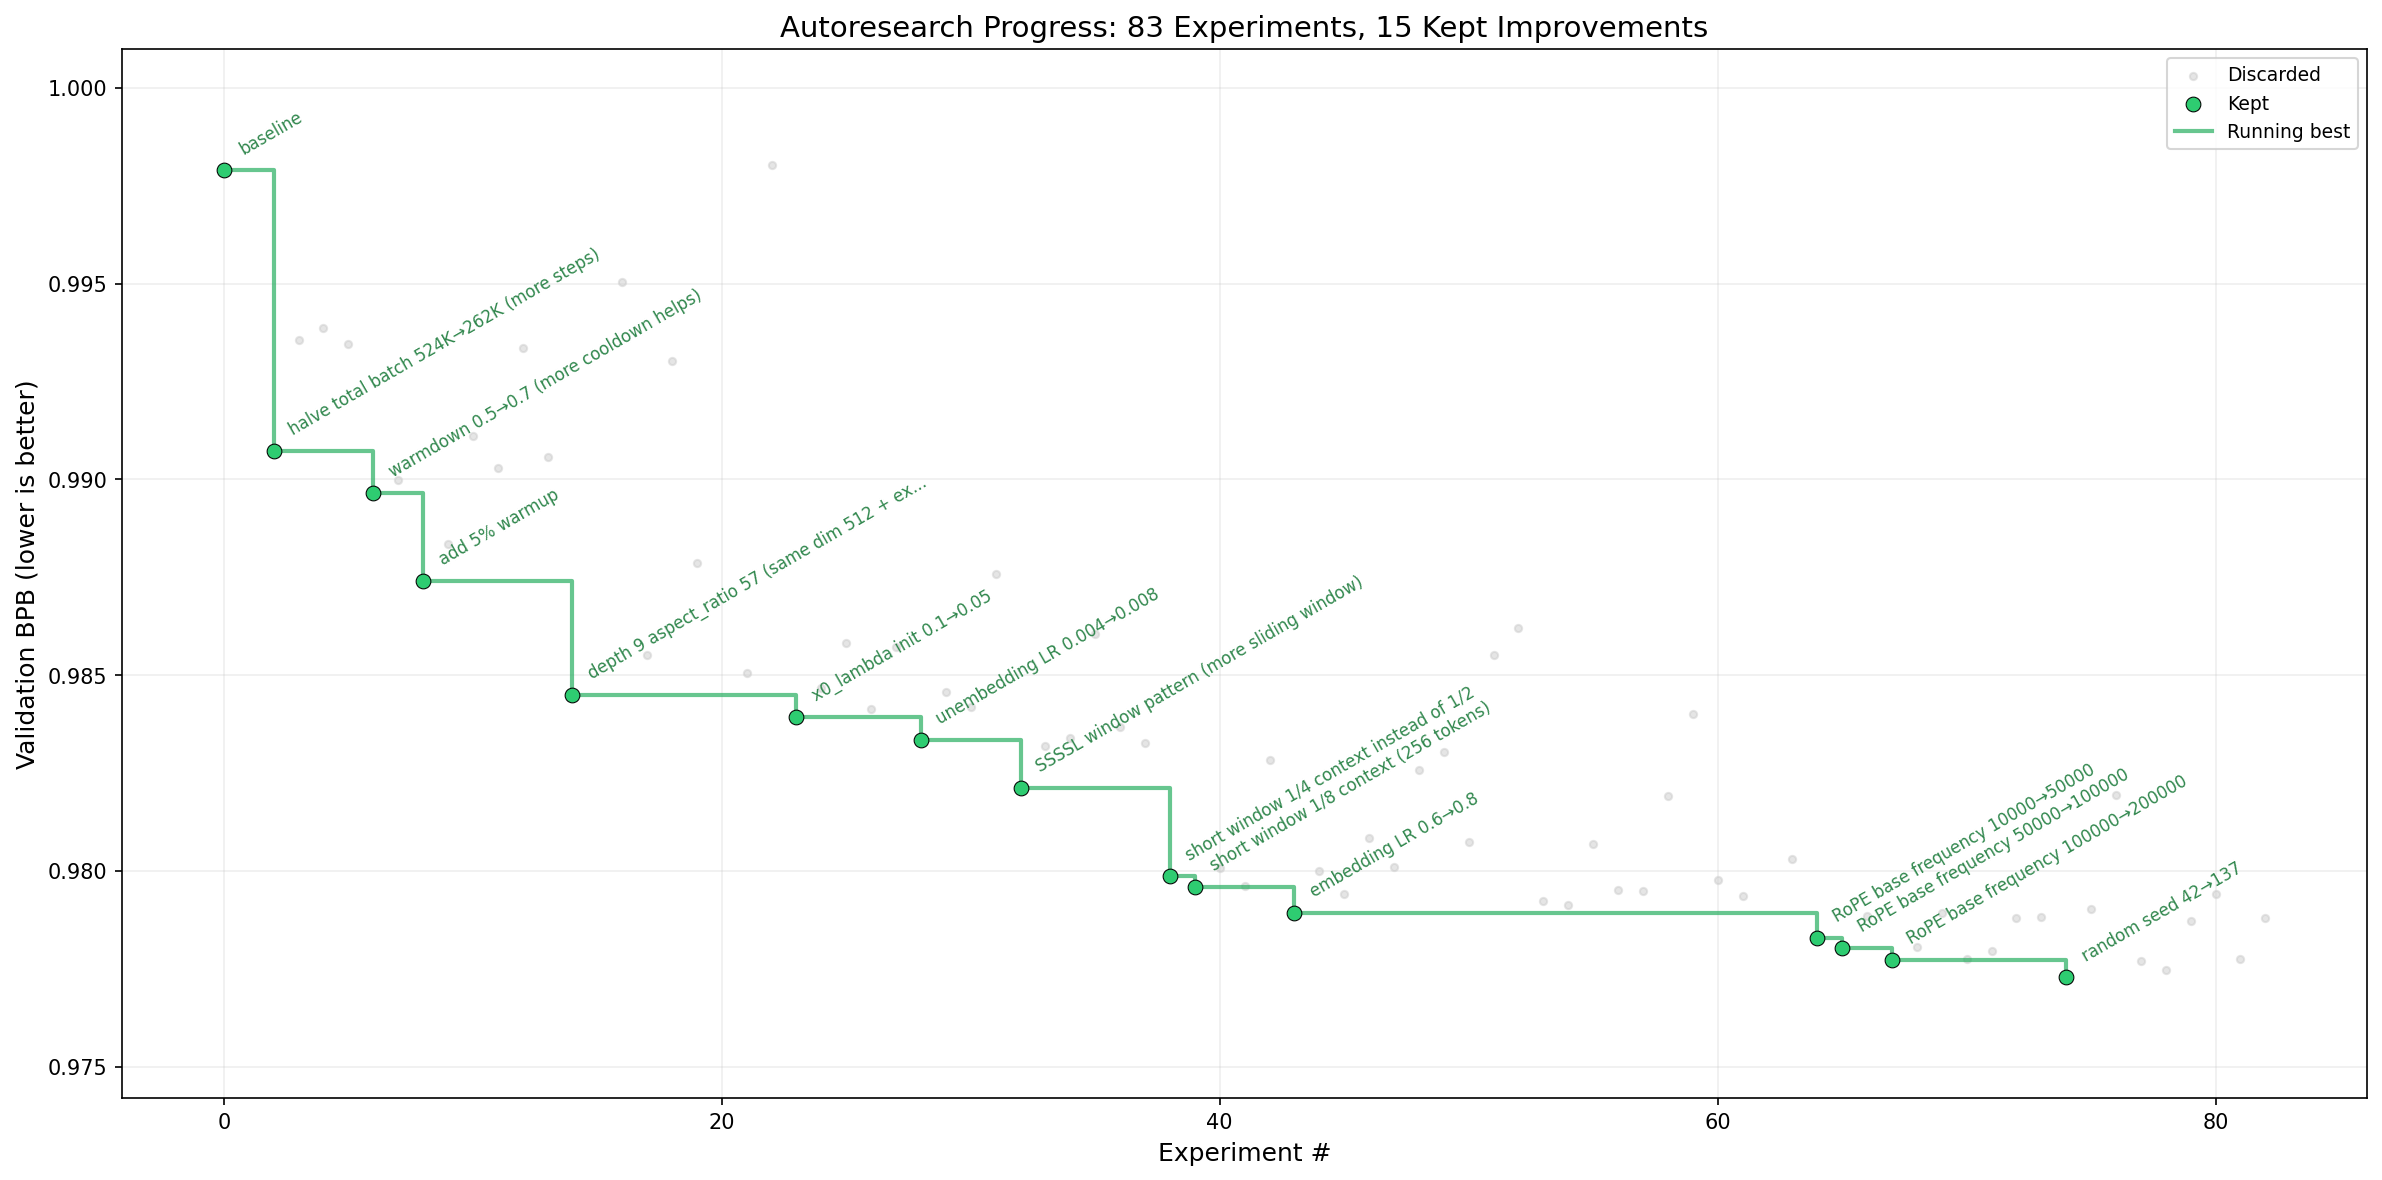
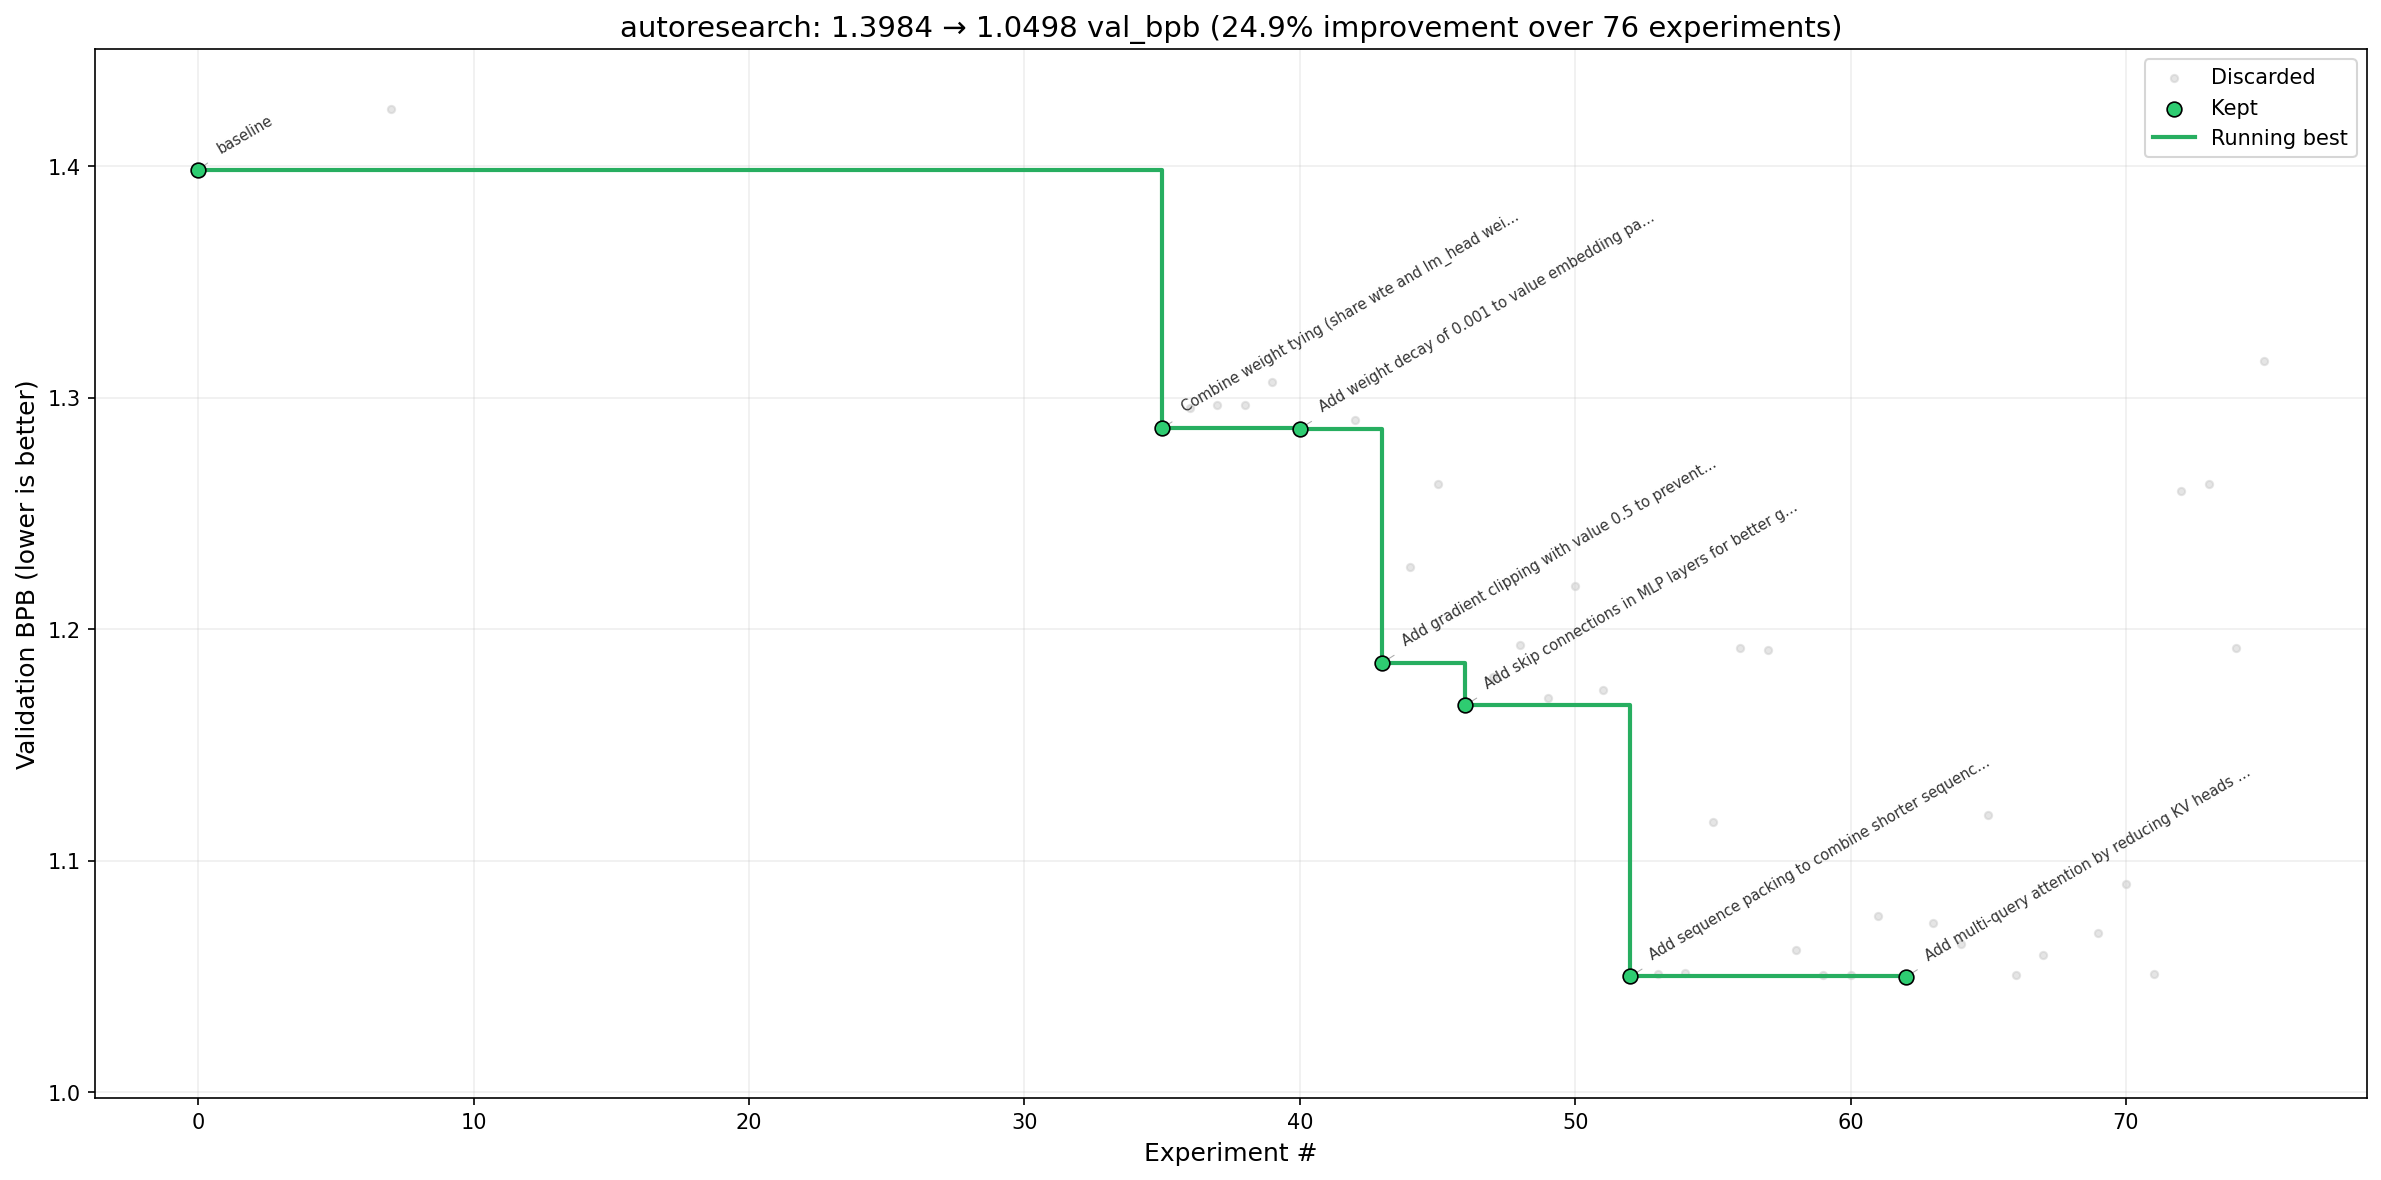
Add progress chart and plotting script — Karpathy-style val_bpb visualization

diff --git a/scripts/plot_progress.py b/scripts/plot_progress.py
@@ -1,0 +1,77 @@
+"""Generate progress.png chart from agent results — matches Karpathy's autoresearch style."""
+
+import sys
+import pandas as pd
+import matplotlib.pyplot as plt
+import numpy as np
+
+def main():
+    results_file = sys.argv[1] if len(sys.argv) > 1 else "agent_results_pubmed.tsv"
+    output_file = sys.argv[2] if len(sys.argv) > 2 else "progress.png"
+
+    # Load results (columns: commit, val_bpb, memory_gb, status, description, sample_text)
+    df = pd.read_csv(results_file, sep="\t", header=None,
+                     names=["commit", "val_bpb", "memory_gb", "status", "description", "sample_text"])
+    df["val_bpb"] = pd.to_numeric(df["val_bpb"], errors="coerce")
+    df = df.dropna(subset=["val_bpb"])
+
+    # Filter out crashes and bogus values
+    valid = df[(df["status"].isin(["keep", "discard"])) & (df["val_bpb"] > 0) & (df["val_bpb"] < 20)].copy()
+    valid = valid.reset_index(drop=True)
+
+    kept = valid[valid["status"] == "keep"]
+    discarded = valid[valid["status"] == "discard"]
+
+    # Running best (cumulative minimum of kept experiments)
+    kept_sorted = kept.copy()
+    kept_sorted["running_min"] = kept_sorted["val_bpb"].cummin()
+
+    fig, ax = plt.subplots(figsize=(16, 8))
+
+    # Discarded experiments — faint gray dots
+    ax.scatter(discarded.index, discarded["val_bpb"], c="#cccccc", s=12, alpha=0.5,
+               zorder=2, label="Discarded")
+
+    # Kept experiments — green dots with black edges
+    ax.scatter(kept.index, kept["val_bpb"], c="#2ecc71", s=50, zorder=4,
+               edgecolors="black", linewidths=0.8, label="Kept")
+
+    # Running minimum step line
+    ax.step(kept.index.tolist(), kept_sorted["running_min"].tolist(),
+            where="post", color="#27ae60", linewidth=2, zorder=3, label="Running best")
+
+    # Annotate kept experiments
+    for idx, row in kept.iterrows():
+        # Truncate long descriptions
+        desc = row["description"]
+        if len(desc) > 50:
+            desc = desc[:47] + "..."
+        ax.annotate(desc, (idx, row["val_bpb"]),
+                    textcoords="offset points", xytext=(8, 8),
+                    fontsize=7, rotation=30, color="#333333",
+                    arrowprops=dict(arrowstyle="-", color="#aaaaaa", lw=0.5))
+
+    # Focus y-axis on interesting region (baseline down to best, with margins)
+    baseline_bpb = kept["val_bpb"].iloc[0] if len(kept) > 0 else valid["val_bpb"].max()
+    best_bpb = valid["val_bpb"].min()
+    margin = (baseline_bpb - best_bpb) * 0.15
+    y_max = baseline_bpb + margin
+    # Show discards above baseline but cap at reasonable level
+    y_max = min(y_max, baseline_bpb * 1.3)
+    y_min = best_bpb - margin
+    ax.set_ylim(y_min, y_max)
+
+    ax.set_xlabel("Experiment #", fontsize=12)
+    ax.set_ylabel("Validation BPB (lower is better)", fontsize=12)
+    ax.set_title(f"autoresearch: {baseline_bpb:.4f} → {best_bpb:.4f} val_bpb "
+                 f"({(1 - best_bpb/baseline_bpb)*100:.1f}% improvement over "
+                 f"{len(valid)} experiments)", fontsize=14)
+    ax.legend(loc="upper right", fontsize=10)
+    ax.grid(True, alpha=0.2)
+
+    plt.tight_layout()
+    plt.savefig(output_file, dpi=150, bbox_inches="tight")
+    print(f"Saved {output_file}")
+
+if __name__ == "__main__":
+    main()
